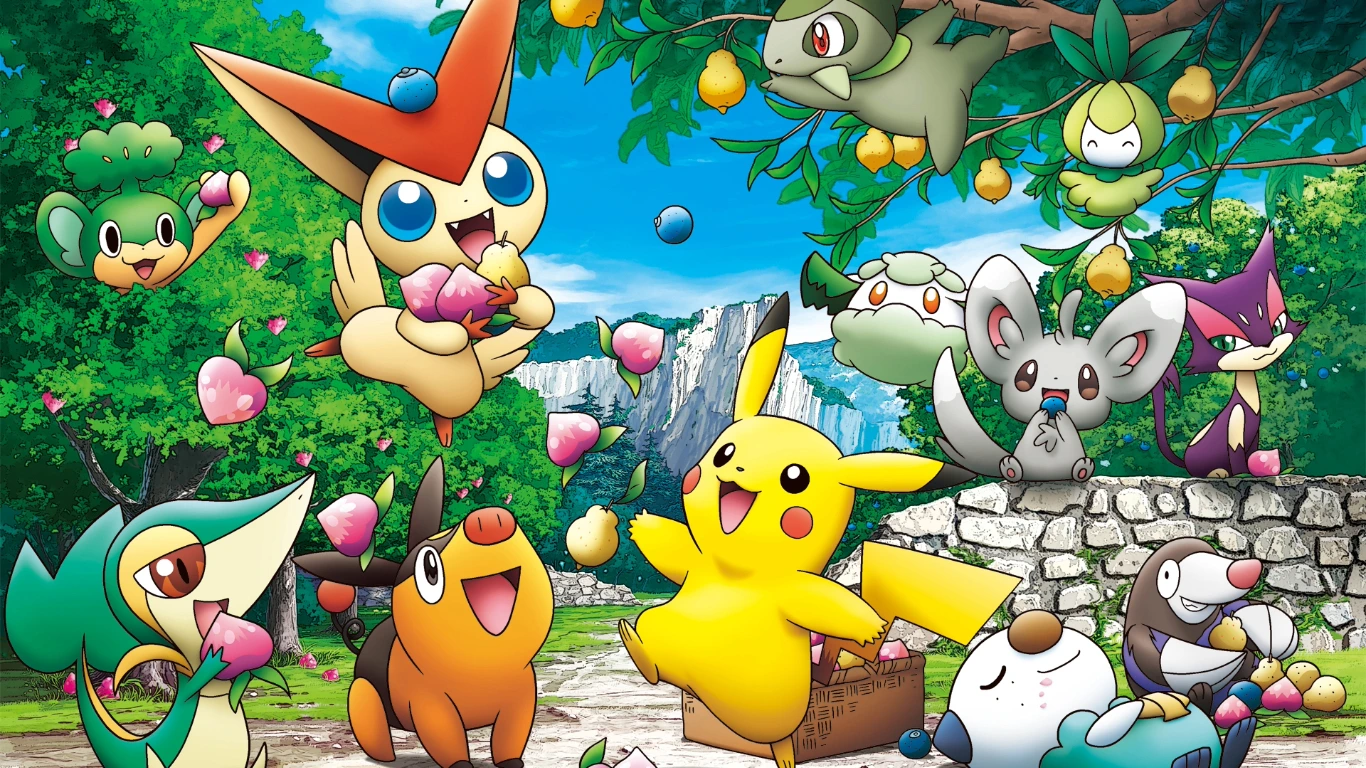
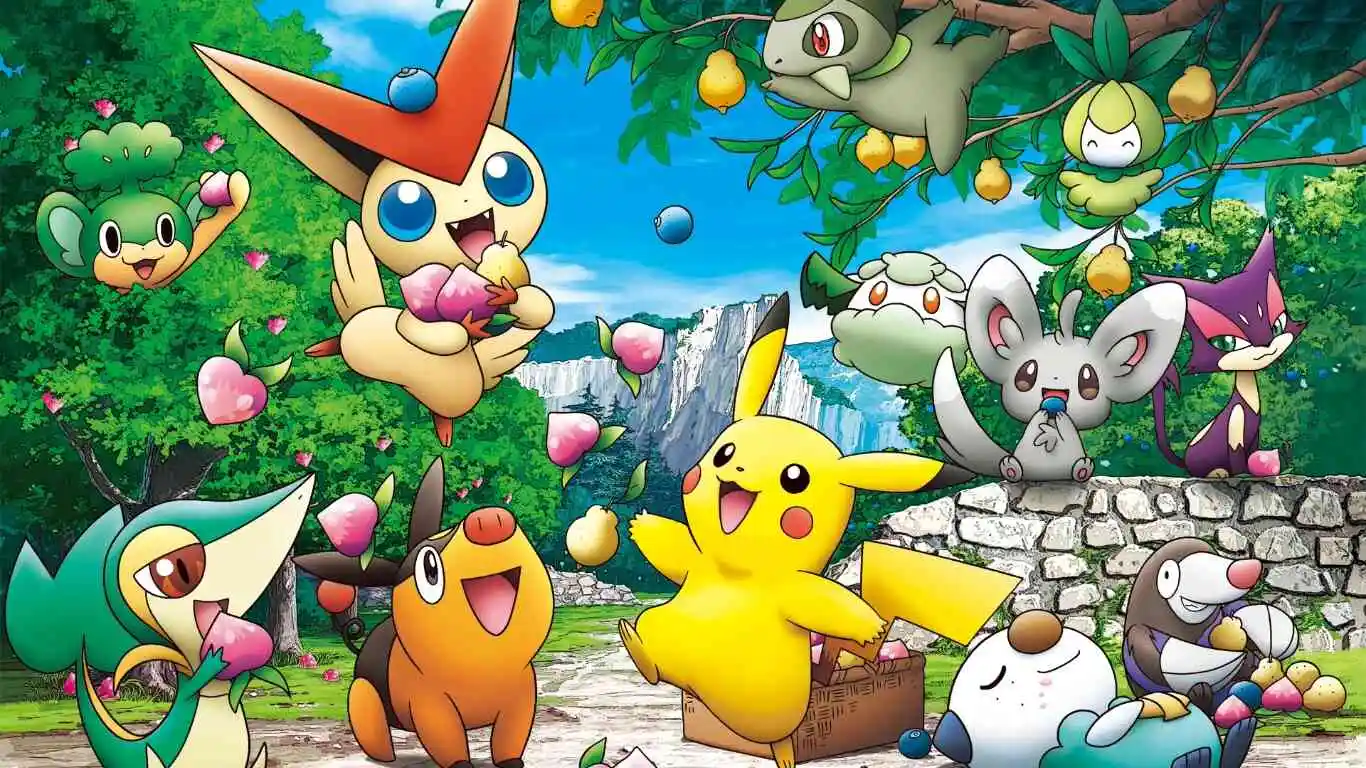
refactor: remove template files, add missing loading files
- due to conflicts with the view transitions api
- lower size of hero background image

diff --git a/src/app/dual-type-chart/loading.tsx b/src/app/dual-type-chart/loading.tsx
@@ -1,0 +1,9 @@
+import React from 'react'
+
+import Loader from '@/components/loader'
+
+const loading = () => {
+  return <Loader />
+}
+
+export default loading

diff --git a/src/app/item/category/[pocketName]/loading.tsx b/src/app/item/category/[pocketName]/loading.tsx
@@ -1,0 +1,9 @@
+import React from 'react'
+
+import Loader from '@/components/loader'
+
+const loading = () => {
+  return <Loader />
+}
+
+export default loading

diff --git a/src/app/move/generation/[number]/loading.tsx b/src/app/move/generation/[number]/loading.tsx
@@ -1,0 +1,9 @@
+import React from 'react'
+
+import Loader from '@/components/loader'
+
+const loading = () => {
+  return <Loader />
+}
+
+export default loading

diff --git a/src/app/sprites/loading.tsx b/src/app/sprites/loading.tsx
@@ -1,0 +1,9 @@
+import React from 'react'
+
+import Loader from '@/components/loader'
+
+const loading = () => {
+  return <Loader />
+}
+
+export default loading
